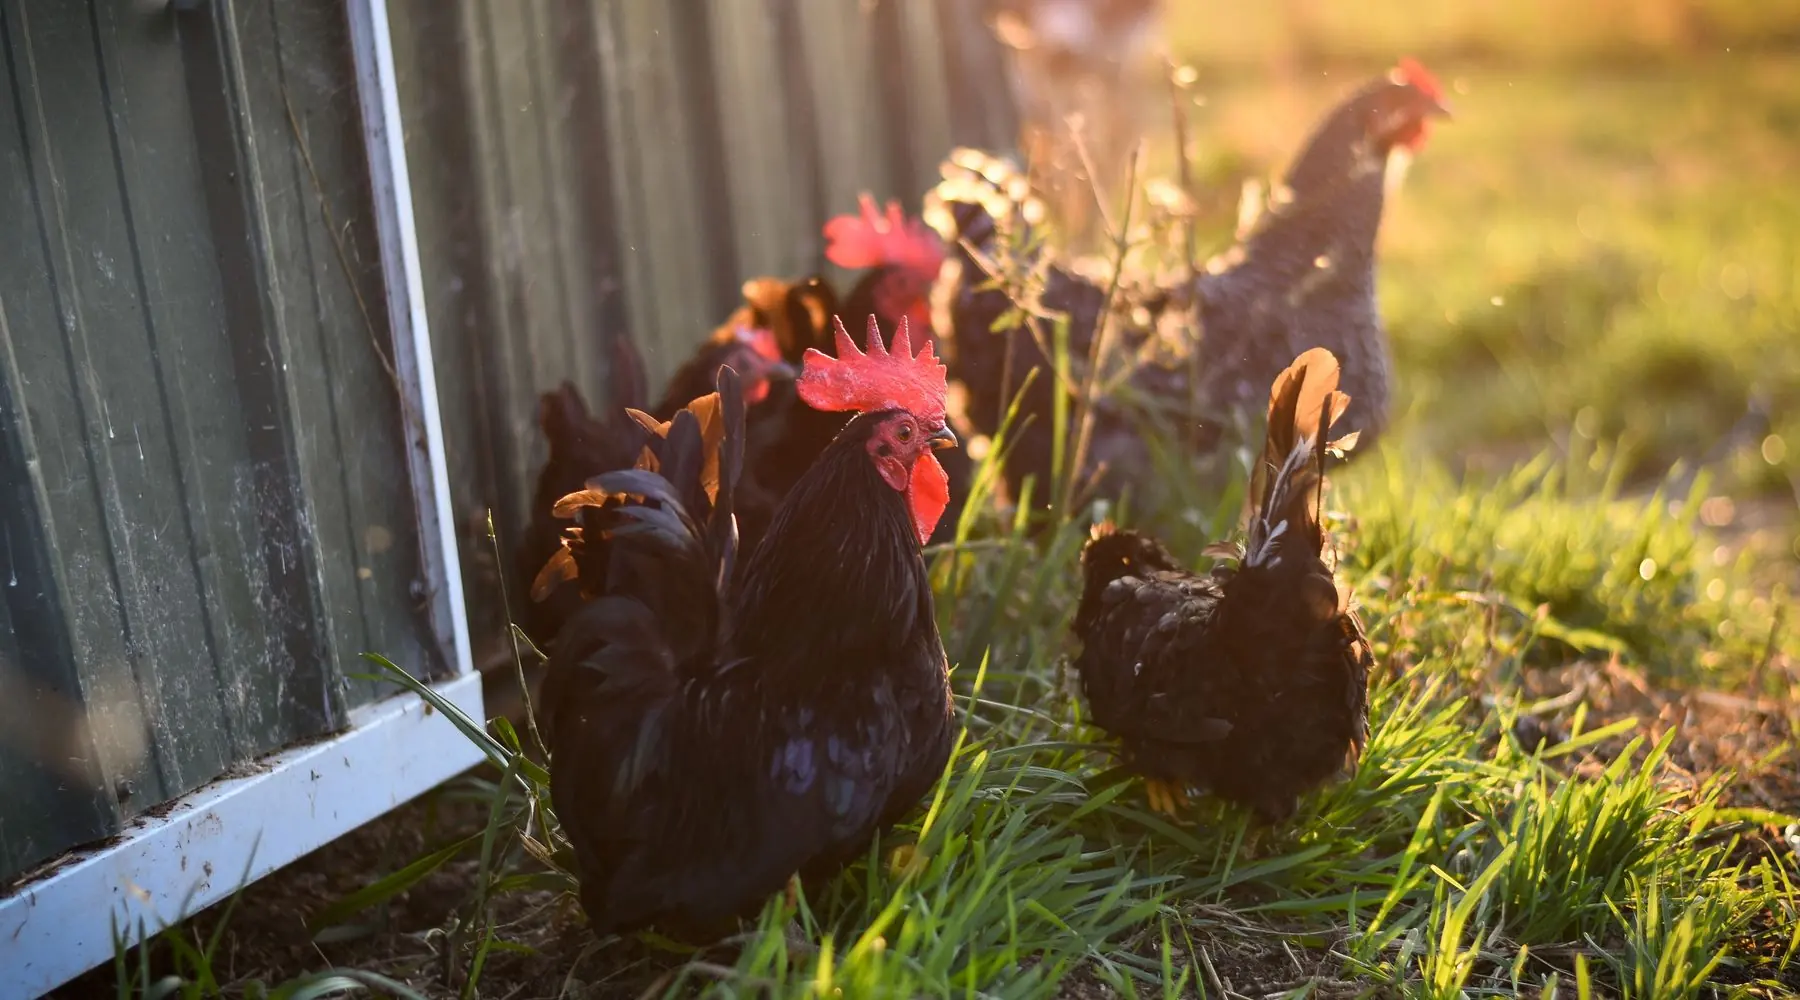
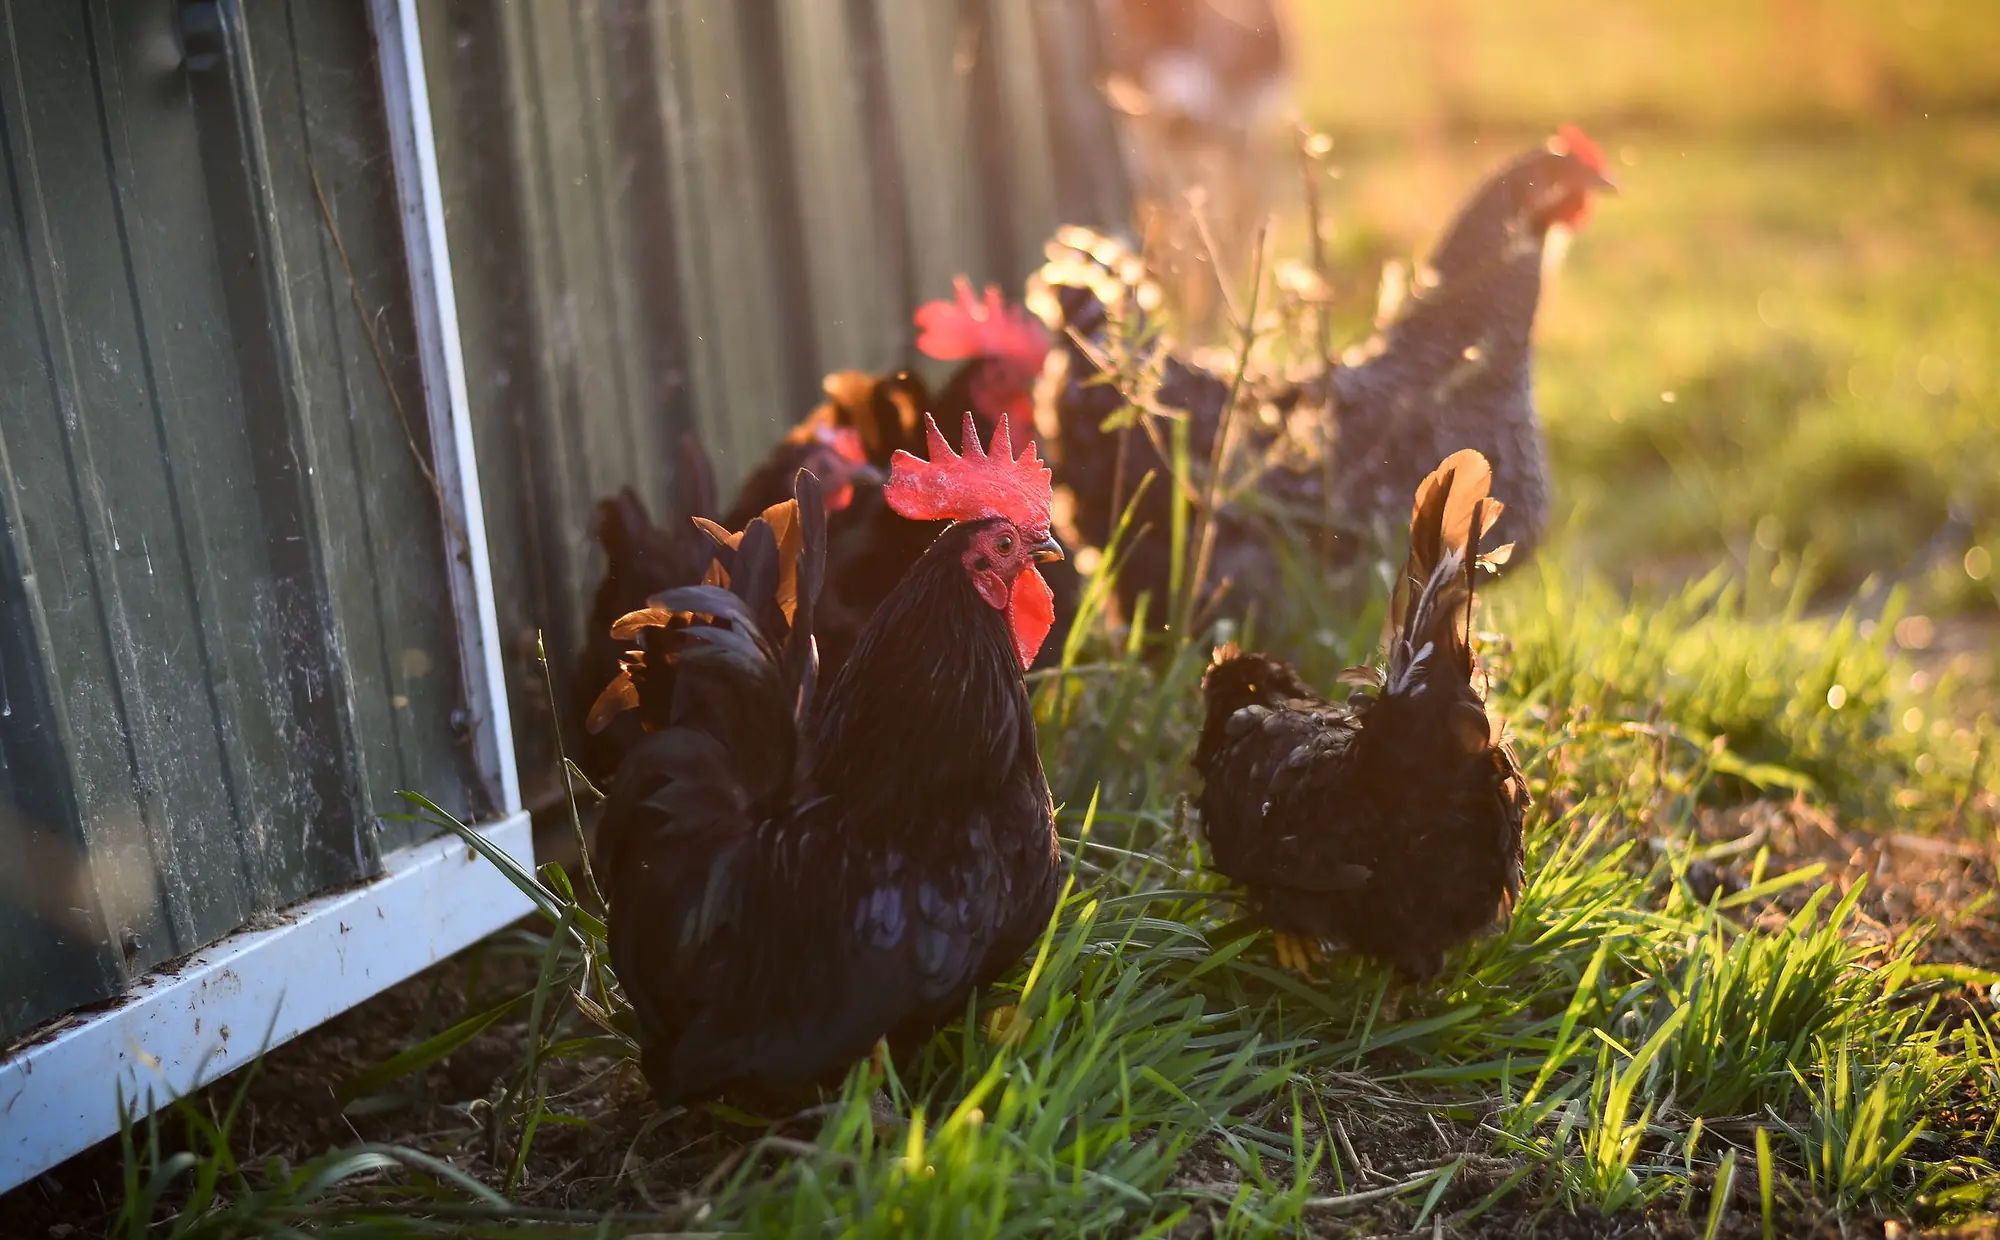
images: thumbnails at 800px with an unsharp mask, static photos re-cut with sharp
THE BLUR HAD A CAUSE. Thumbnails were written at 400px on the long edge, for a
card the old code reckoned at roughly 300px CSS. The redesigned card is 4:5
and up to 330px wide, so on a 2x screen - every phone the farm browses on -
it is drawn from 660 by 825 device pixels, and a 400px source was being
stretched to twice its size in both directions.

Thumbnail::MAX_EDGE goes to 800 and quality to 82, and the downscale is now
followed by a 3x3 unsharp kernel, because resampling averages neighbouring
pixels and softens every edge. Centre weight 20 was tried first and moved an
edge by one grey level - too little to see; 12 overshoots by four or five,
which reads as crisp without haloing a bird against a bright sky.

The new test proves the sharpen is applied, and it was wrong twice before it
was right. Measuring the steepest step could not see it: on a ramp only the
shoulders move. Comparing against an unencoded resample passed with the
sharpen removed, because JPEG ringing steepens edges on its own. It now
compares against the same pipeline through JPEG, measures the overshoot, and
fails when the kernel is taken out - checked both ways.

WHY GD AND NOT SHARP FOR UPLOADS: uploads are processed by PHP on Render, and
the production image carries no Node at runtime. sharp is used where it can
be - re-cutting the static photographs from their full-size Pexels originals
with a lanczos3 resize and a light unsharp mask - run as a one-off from a
[…]

diff --git a/tests/Feature/Photos/ThumbnailTest.php b/tests/Feature/Photos/ThumbnailTest.php
@@ -96,8 +96,64 @@ final class ThumbnailTest extends TestCase
         [$width, $height] = getimagesizefromstring((string) $bytes);
 
         $this->assertSame(Thumbnail::MAX_EDGE, max($width, $height));
-        // Aspect ratio preserved: 900x3000 scaled to a 400 long edge is 120x400.
-        $this->assertSame(120, $width);
+        // Aspect ratio preserved: 900x3000 scaled to the long edge keeps 3:10.
+        $this->assertSame((int) round(900 * Thumbnail::MAX_EDGE / 3000), $width);
+    }
+
+    /**
+     * The downscale is sharpened, which is what keeps a thumbnail from looking
+     * out of focus.
+     *
+     * Resampling averages neighbouring pixels and softens every edge. The
+     * test draws a soft edge, makes a thumbnail, and compares it against the
+     * same downscale done WITHOUT the sharpen. A thumbnail no crisper than a
+     * plain resample means the kernel has stopped being applied.
+     */
+    public function test_the_thumbnail_is_sharper_than_a_plain_resample(): void
+    {
+        $source = imagecreatetruecolor(1600, 400);
+        for ($x = 0; $x < 1600; $x++) {
+            // Dark to light across a 40px ramp in the middle - a soft edge.
+            $level = (int) max(40, min(215, 40 + ($x - 780) * (175 / 40)));
+            $colour = imagecolorallocate($source, $level, $level, $level);
+            imageline($source, $x, 0, $x, 399, $colour);
+        }
+        ob_start();
+        imagepng($source);
+        $bytes = (string) ob_get_clean();
+
+        // The comparison goes through JPEG at the same quality the thumbnail
+        // uses. A first version compared against an unencoded resample and
+        // passed with the sharpen REMOVED: JPEG's own ringing steepens an edge,
+        // so the test was measuring compression, not sharpening.
+        $resampled = imagecreatetruecolor(800, 200);
+        imagecopyresampled($resampled, $source, 0, 0, 0, 0, 800, 200, 1600, 400);
+        ob_start();
+        imagejpeg($resampled, null, 82);
+        $plain = imagecreatefromstring((string) ob_get_clean());
+
+        $thumb = imagecreatefromstring((string) Thumbnail::fromBytes($bytes));
+
+        // What sharpening does to an edge is overshoot it: a little darker
+        // just before, a little lighter just after. A plain resample never
+        // leaves the range of the pixels it averaged, so the sharpened
+        // thumbnail's range across the edge is wider. (Measuring the steepest
+        // single step was tried first and cannot see it - on a straight ramp
+        // the middle is unchanged and only the shoulders move.)
+        $range = function ($image): int {
+            $lo = 255;
+            $hi = 0;
+            for ($x = 300; $x < 500; $x++) {
+                $v = imagecolorat($image, $x, 100) & 0xFF;
+                $lo = min($lo, $v);
+                $hi = max($hi, $v);
+            }
+
+            return $hi - $lo;
+        };
+
+        $this->assertGreaterThanOrEqual($range($plain) + 4, $range($thumb),
+            'The thumbnail does not overshoot the edge - the sharpen is not being applied.');
     }
 
     /** Re-encoding an already-small image would cost quality for nothing. */

diff --git a/app/Support/Thumbnail.php b/app/Support/Thumbnail.php
@@ -41,19 +41,46 @@ final class Thumbnail
     /**
      * Longest edge, in pixels.
      *
-     * 400 covers the largest place a thumbnail is used - a catalogue card at
-     * roughly 300px CSS - with enough left over to stay sharp on a 2x phone
-     * screen, which is what the farm actually browses on.
+     * 800, raised from 400 because 400 was visibly soft. The arithmetic the
+     * old value rested on was a catalogue card at "roughly 300px CSS"; the
+     * redesigned card is 4:5 and up to 330px wide, so on a 2x screen - every
+     * phone the farm browses on, and most laptops - it is drawn from 660
+     * device pixels wide by 825 tall. A 400px source was being stretched to
+     * twice its size in both directions, and that stretch is the blur people
+     * noticed. 800 on the long edge covers the 825 within a few percent.
      */
-    public const MAX_EDGE = 400;
+    public const MAX_EDGE = 800;
 
     /**
      * JPEG quality.
      *
-     * 75 is the usual point where artefacts stop being visible at this size;
-     * higher buys bytes rather than appearance on a 400px image.
+     * 82 rather than 75: at 800px the image is large enough on screen for
+     * block artefacts in feathers - fine, high-contrast detail - to show.
+     * The thumbnail is still a fraction of the original's size.
      */
-    private const QUALITY = 75;
+    private const QUALITY = 82;
+
+    /**
+     * Unsharp mask applied after downscaling.
+     *
+     * Resampling averages neighbouring pixels, which is what makes a
+     * reduced photograph look slightly out of focus - the edges of a hackle
+     * feather lose their contrast. A light sharpen after the resize restores
+     * it. This is GD's equivalent of what an image tool's "sharpen after
+     * resize" does: a 3x3 kernel weighted toward the centre pixel. The
+     * centre weight sets the strength - higher is gentler. 20 was tried
+     * first and changed an edge by a single grey level, too little to see;
+     * 12 overshoots an edge by four or five levels, which reads as crisp
+     * without putting visible halos round a bird against a bright sky.
+     *
+     * Not applied when the image was already small enough to pass through
+     * unresized; there is no softening to undo.
+     */
+    private const SHARPEN = [
+        [-1, -1, -1],
+        [-1, 12, -1],
+        [-1, -1, -1],
+    ];
 
     /**
      * A hard ceiling on pixels we will attempt to decode.
@@ -178,6 +205,10 @@ final class Thumbnail
             imagesx($target), imagesy($target),
             $width, $height
         );
+
+        // Divisor is the kernel's sum (12 - 8 = 4), so overall brightness is
+        // unchanged and only edge contrast moves.
+        imageconvolution($target, self::SHARPEN, 4, 0);
 
         return $target;
     }

diff --git a/resources/views/livewire/landing/index.blade.php b/resources/views/livewire/landing/index.blade.php
@@ -323,7 +323,7 @@
         <div class="grid items-center gap-10 lg:grid-cols-2 lg:gap-20">
             <div class="sb-photo aspect-[4/5] lg:order-2" data-reveal>
                 <img src="{{ asset('photos/visit-field.webp') }}" alt="Pasture at first light"
-                     width="880" height="1100" loading="lazy" decoding="async">
+                     width="1240" height="1550" loading="lazy" decoding="async">
             </div>
 
             <div class="lg:order-1" data-reveal style="--reveal-delay: 100ms">

diff --git a/public/photos/CREDITS.md b/public/photos/CREDITS.md
@@ -14,5 +14,5 @@ where any image on its site came from.
 
 | File | Photograph | Treatment | Source |
 |---|---|---|---|
-| `hero-farm.webp` | Chicken Walking on Grass in Countryside | Cropped only. A farm scene at golden hour rather than a head close-up, which read as aggressive and said nothing about the place | https://www.pexels.com/photo/chicken-walking-on-grass-in-countryside-5557743/ |
-| `visit-band.webp` | Green Grass Field during Sun Rise | Cropped to the lower two thirds, saturation +12%. An earlier duotone drained it to a flat grey band that read as a failed image load | https://www.pexels.com/photo/green-grass-field-during-sun-rise-997121/ |
+| `hero-farm.webp` | Chicken Walking on Grass in Countryside | 2000x1240 from the full-size original, lanczos3 resize and a light unsharp mask (sharp, sigma 0.6), WebP q74. Used on the sign-in panel | https://www.pexels.com/photo/chicken-walking-on-grass-in-countryside-5557743/ |
+| `visit-field.webp` | Green Grass Field during Sun Rise | 4:5 crop at 1240x1550 from the full-size original, lanczos3 resize and a light unsharp mask (sharp, sigma 0.6), WebP q74. The home page's visit section | https://www.pexels.com/photo/green-grass-field-during-sun-rise-997121/ |
